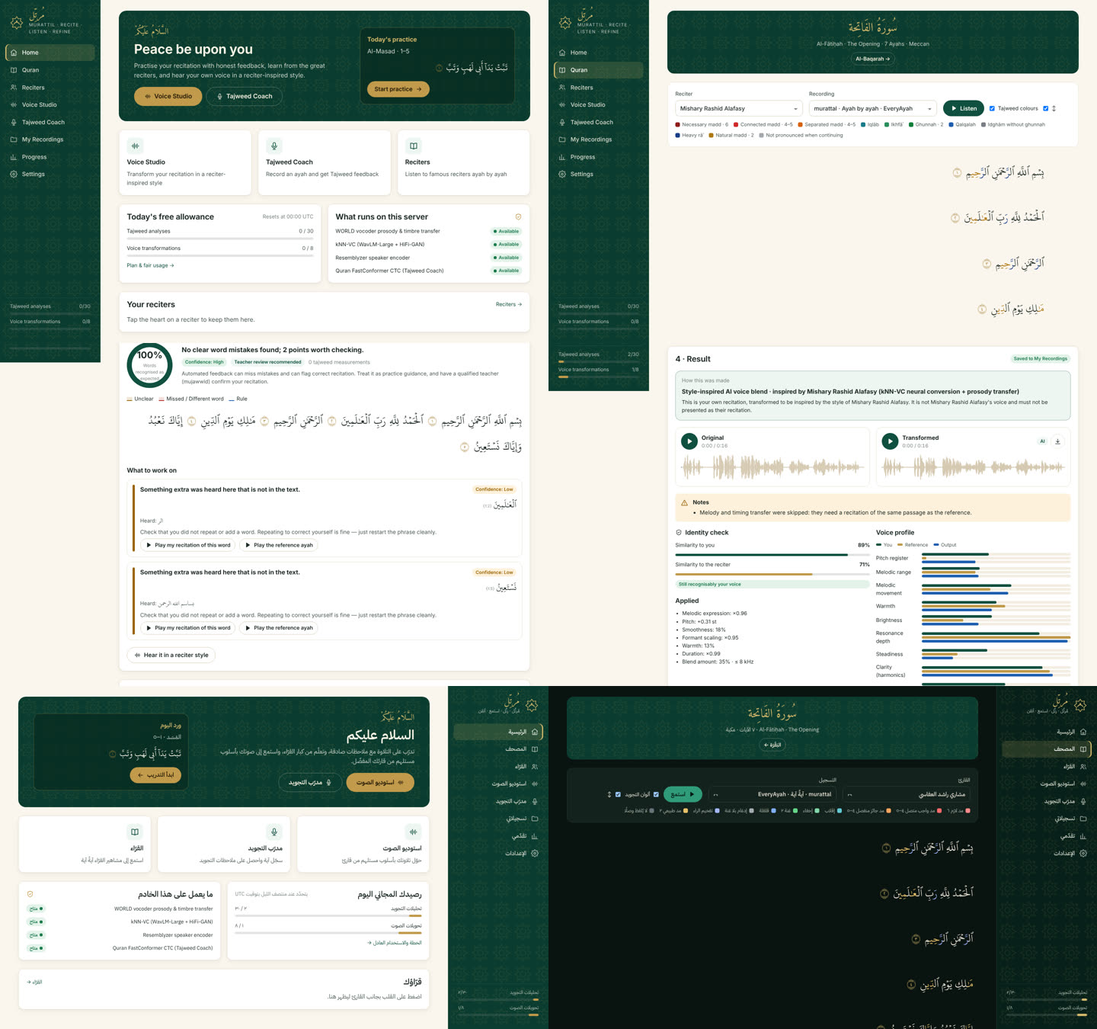
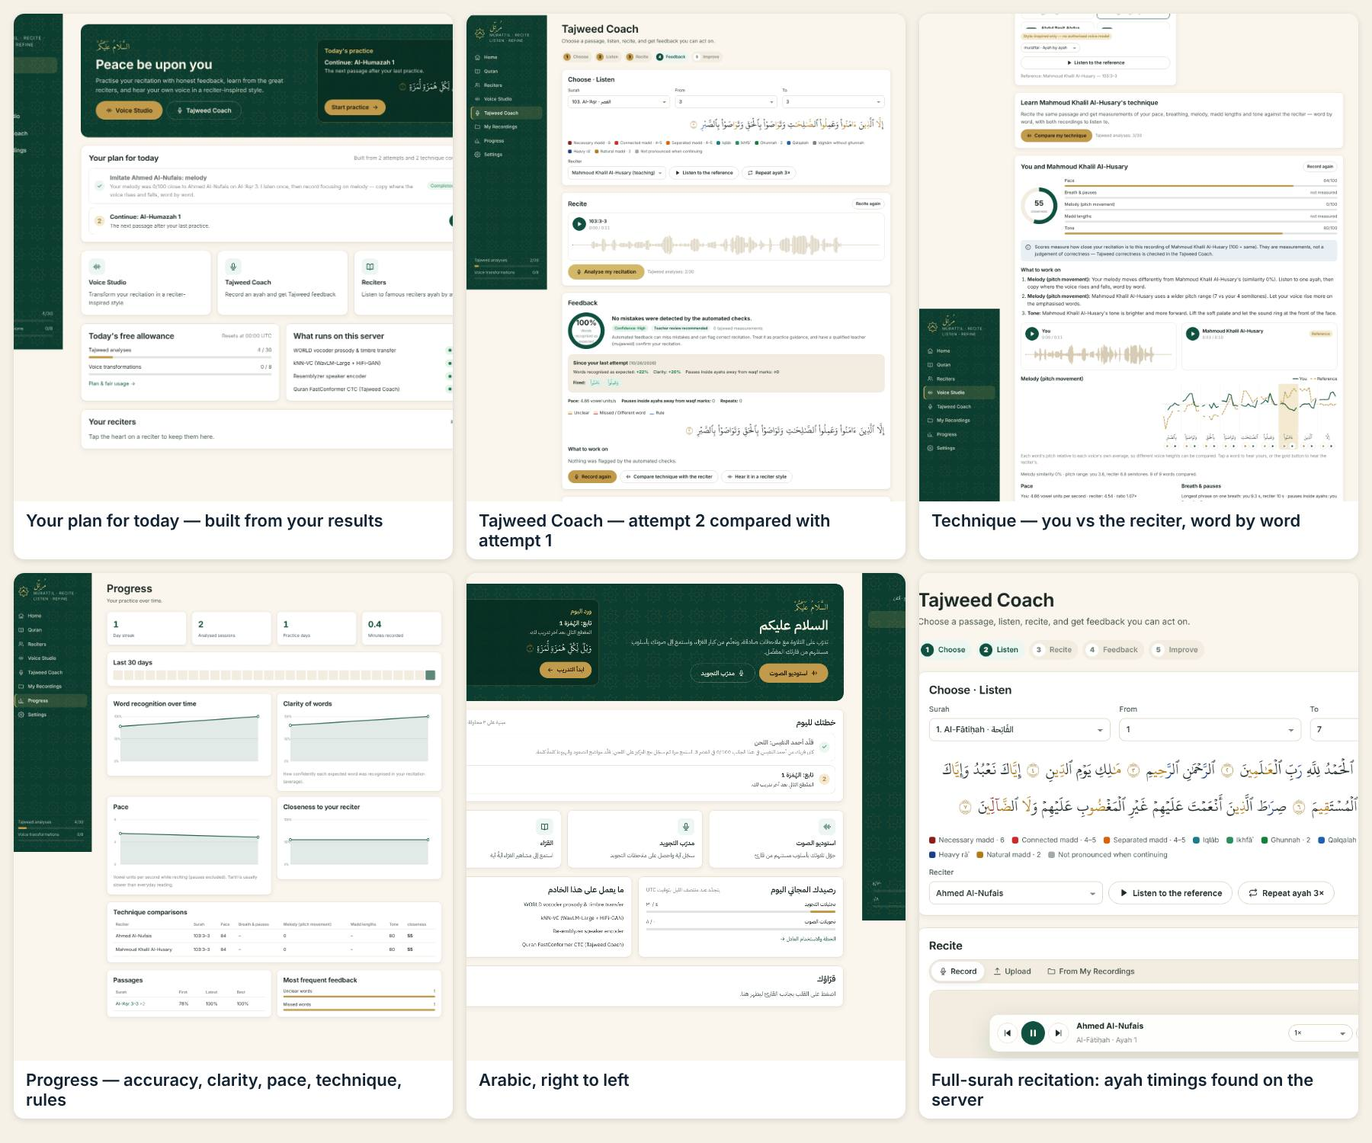
README: measured results on real recitations, deployment, what must be connected
Screenshots now come from the browser run on real recitations (practice
loop, technique comparison, plan, progress, Arabic, full-surah timings).

Claude-Session: https://claude.ai/code/session_015RJCaEhpMG8aXkcFDyGeNf

diff --git a/murattil/README.md b/murattil/README.md
@@ -1,45 +1,159 @@
 # Murattil · مُرتِّل
 
-A Quran recitation practice app. Recite in your own voice and get honest Tajweed feedback. Listen ayah by ayah to famous reciters. Hear your own recitation transformed toward a reciter-inspired vocal style.
+A Quran recitation practice app built around one goal: **help you recite better, measured on your
+own voice.**
 
-The app is free to use within published daily limits. Everything runs on a single server: a FastAPI back end, a React front end, and AI models that run on the CPU.
+- **Tajweed Coach.** Recite an ayah range. The Quran speech recogniser aligns every word you recited to
+  the text and reports missed, different and repeated words, with:
+  - the exact ayah and word;
+  - step-by-step corrections;
+  - your word and the reference ayah to play back.
 
-![Murattil: home, Quran reader with tajweed colours, Tajweed Coach feedback, Voice Studio result, Arabic RTL, dark mode](docs/screenshots.jpg)
-![Mobile layout](docs/screenshots-mobile.jpg)
+  Each new attempt is compared with your previous one: what you fixed, what is still wrong, and what is new.
+- **Learn a reciter's technique.** Record the same passage as your favourite reciter (for example
+  Ahmed Al-Nufais). You get word-by-word measurements of pace, breath and pauses, pitch movement
+  (melody), madd lengths and tone, against the reciter reciting the same words. Both recordings can be
+  played word by word.
+- **Voice Studio.** Hear your own recitation transformed toward a reciter-inspired style: prosody and
+  timbre transfer plus a capped neural voice blend, checked to still be your voice. It is never
+  presented as the reciter's voice.
+- **Your plan for today.** Built only from your own results: fix the words from your last attempt,
+  drill the rule flagged most, imitate your reciter on your weakest technique score, then review or
+  continue.
+- **Reciters and Quran reader.** Ahmed Al-Nufais, Alafasy, Al-Sudais, Al-Muaiqly, Al-Dosari, Islam Sobhi,
+  Al-Minshawi, Al-Husary, Abdul Basit and more. Play ayah by ayah with repeat, range and speed, alongside
+  the KFGQPC Uthmani text with tajweed colours.
 
-*Screenshots from the Playwright run in the development environment. The reciter audio hosts were not
-reachable there, so the Voice Studio's "reference reciter" was a local stand-in serving LibriSpeech
-speech; the recitation analysed in the Coach was synthetic (eSpeak NG) audio fed through the browser's
-fake microphone.*
+English and Arabic (RTL), light and dark, desktop and mobile. Free within published daily limits.
+
+![Murattil](docs/screenshots.jpg)
 
 ```
 murattil/
-  server/   Python: API, background jobs, audio + AI pipelines, tests
+  server/   Python: API, background jobs, audio + AI pipelines, evaluation scripts, tests
   web/      React + TypeScript single-page app
+  deploy/   Hugging Face Space card (see "Put it online")
   scripts/  data build (Quran text, tajweed spans)
 ```
 
-## What is real, and how it was verified
+## Measured on real recitations
 
-| Feature | What actually runs | How it was verified in development |
+Every number below was measured on real human recitation, not synthetic audio. The corpus is the
+public benchmark of the [Tilawa project](https://github.com/yazinsai/tilawa/tree/main/lab/benchmark):
+
+- EveryAyah professional reciters (Alafasy, Husary and others): 204 recordings, 79 minutes.
+- Crowd-sourced recitations: TLOG (77 recordings) and RetaSy (54).
+
+To reproduce: `python server/scripts/evaluate_coach.py --corpus DIR --download` (the audio is not
+redistributed here).
+
+### Tajweed Coach: words
+
+| | Result |
+| --- | --- |
+| False alarms on correct professional recitation | **2.7 % of words** flagged (78 of 2,836); 46 of 204 recordings get at least one flag |
+| A word **deleted** from a professional recording | flagged at that word in **80 %** of 107 trials |
+| A word **replaced** by another word of the same ayah | flagged in **84 %** of 103 trials |
+| A word **repeated** | flagged in **83 %** of 107 trials |
+| Speed after warm-up | median 1.3 s per recording (4 CPU cores) |
+
+The measurement exposed a recogniser habit on long madds: it writes a held syllable twice
+(«عليكمكم» for «عليكم») or splits a word in two. Word matching now forgives exactly those patterns,
+which cut false alarms from 4.4 % to 2.7 % while detection stayed the same or improved.
+
+### Tajweed Coach: rule checks
+
+Only checks shown to be reliable on real audio are reported:
+
+| Check | On correct professional recitation | Detects a real mistake | Reported? |
+| --- | --- | --- | --- |
+| Madd length (4–6 counts) | before the fix below: flagged "short" on 95 % of professional madds; re-measurement after the fix in progress | controlled shortening to ~1.5 counts (see below) | until re-measured: as information only |
+| Ghunnah duration | flagged "short" on 98 % of professional ghunnahs (before the fix below) | not measurable without labelled mistakes | **no** |
+| Qalqalah release | flagged "missing" on 77 % of professional qalqalahs (room reverb fills the closure) | — | **no** |
+| Pause inside a word | 16 pauses in 2,836 professional words | — | yes, as information only |
+
+Two bugs were found this way. The detector for a held vowel used a spectral-steadiness threshold
+tuned on synthetic speech, which real recordings never pass. It also excluded the vowels ī and ū,
+so real madds measured about 0 counts. Both are fixed: steadiness is now measured on mel bands,
+relative to each recording. A controlled test supports this: the held vowel of a professional's
+madd is shortened to about 1.5 counts by cutting out its middle, and the coach must notice.
+
+### Reciter technique comparison
+
+Each control below checks one measurement against a known change of a real professional recording,
+against itself:
+
+| Control | Result |
+| --- | --- |
+| Same recording | every score 100 |
+| Slowed to 0.8× | measured pace ratio 0.79–0.86 |
+| Pitch raised 3 semitones | melody similarity 91–97 % (melody is compared relative to each voice's own pitch); pace unchanged |
+
+It was also run on 48 pairs of a crowd-sourced reciter and a professional reciting the same ayah.
+For example, one crowd-sourced reciter was measured 2.4× faster than Husary, and another took
+mid-ayah breaths after «لَآ» and «مَا» where the reciter does not. Scores measure closeness to that
+recording, not correctness.
+
+### Other measurements
+
+- **Finding ayahs in a full-surah recording.** Some reciters, including Ahmed Al-Nufais, are published
+  only as one file per surah. In 5–6 minute recordings built from real professional ayahs (half with
+  the pauses removed), the found ayah overlaps the true one by 0.90 on average (worst 0.73), at about
+  4 s per minute of audio.
+- **Voice Studio on a real recitation.** A crowd-sourced 103:3 transformed with the neural blend:
+  the identity guard measured 0.89 similarity to the user and 0.80 to the reference (passed); 91 % of
+  melody frames were aligned to the reciter's recitation of the same ayah.
+
+### End-to-end in a browser on real audio
+
+Playwright drove Chromium. The microphone was a fake capture device playing a real crowd-sourced
+recitation, and the reference reciters were real EveryAyah recordings. All 15 checks passed, with
+no page errors:
+
+- Attempt 1 (uploaded, one word cut out) reports that word as not heard, with step-by-step correction.
+- Attempt 2 (recorded live through the microphone) lists the word as fixed.
+- Technique comparison with Husary (per-ayah source) and with Al-Nufais (full-surah source, ayahs
+  found on the server).
+- The player finds ayah timings for a full-surah recording and then plays ayah by ayah.
+- The plan and progress pages show what was measured.
+- Arabic and mobile layouts render without horizontal scroll.
+
+The audio hosts are blocked from the development sandbox, so they were replaced by a local stand-in
+serving those real recordings. Al-Nufais's own audio could therefore not be fetched, and a
+professional EveryAyah recording stood in for his full-surah file.
+
+## What must be connected for a live deployment
+
+| Needed | Why | Status |
 | --- | --- | --- |
-| **Voice Studio: neural blend** | kNN-VC (WavLM-Large layer 6 + HiFi-GAN, MIT). Frames of your recitation are blended with their nearest neighbours from the reciter's reference audio: `(1−λ)·you + λ·kNN(reciter)`. | Real weights on real speech. Resynthesis stays you (speaker similarity 0.96). Full conversion becomes the target speaker (0.93). A 35% blend gives 0.88 to you and 0.71 to the reference (was 0.61 before). |
-| **Voice Studio: style transfer** | WORLD vocoder analysis and resynthesis: pitch register (kept in *your* octave), melodic range, DTW-aligned melody and timing transfer from the same passage, formant resonance, spectral warmth, smoothness, vibrato on held notes | Each control is measured on the output. +4 st in gives +4.08 st out. Resonance −1 scales formants ×0.885. Pace ×1.25 gives ×1.25 duration. Against a deliberately inverted reference melody, contour correlation goes from −0.92 (original) to +0.86 (output), still in the user's register. |
-| **Identity guard** | Resemblyzer speaker encoder. A blend toward a reciter who has not authorised a voice model must stay ≥ 0.70 similar to the user *and* closer to the user than to the reciter, or it is reduced and finally withheld. Fails closed. | Tested with real weights, with random-weight (noise) output, and with white noise. |
-| **Tajweed Coach: words** | Quran FastConformer CTC (Tilawa project, MIT / NVIDIA CC-BY-4.0). Forced alignment of the expected ayahs, with the basmalah optional. Free transcription is compared word by word. Missed, extra, substituted and unclear words each get a confidence. | Real model on synthetic Arabic speech (eSpeak NG). It detects a deliberately omitted word (1:5 «نعبد»), aligns 88% of a complete passage, and correctly picks the basmalah before Al-Ikhlāṣ. **Not yet evaluated on human recitation:** no recitation audio was reachable from the build environment. |
-| **Tajweed Coach: rules** | Conservative acoustic measurements inside aligned words, measured in counts of the reciter's own tempo: madd length (≥ 4-count madds), ghunnah duration, qalqalah release. Never more than "medium" confidence. | Unit-tested logic only. These are heuristics, not a trained tajweed classifier. The UI labels them as such and always recommends a teacher. |
-| **Quran text** | KFGQPC Uthmanic Hafs v3.0 (via `@quran.ws/text`, CC BY 4.0), rendered in the KFGQPC Hafs font, with 147,234 tajweed spans from the quran.ws corpus (CC BY 4.0) | The build script checks the letter skeleton of all 6,236 ayahs against the independent Tanzil text (all 6,236 match). It validates every checkable tajweed span and refuses to write output on failure. 20:1 and 27:20 get no colouring because their spans did not validate. |
-| **Reciters** | 28 reciters, including Ahmed Al-Nufais, Alafasy, Al-Sudais, Al-Muaiqly, Al-Dosari, Islam Sobhi, Al-Minshawi, Al-Husary, Abdul Basit, Al-Ghamdi, Al-Qatami and Bandar Baleela. Audio streams from everyayah.com (per ayah) or the mp3quran.net API (per surah, with ayah timings where published). | Playback, repeat and range logic were exercised in the browser. **The audio hosts were blocked from the build environment**, so EveryAyah folder names and mp3quran name matching were not checked live. The server checks every source every 6 h and the UI marks unreachable ones. |
+| A host with ≥ 4 GB RAM (2 vCPU is enough) | models run on the CPU | Docker image and a one-click Hugging Face Space workflow are included (below) |
+| Outbound HTTPS to `everyayah.com` and `mp3quran.net` | reference recitations are streamed, not rehosted | Works on normal hosting. Folder names and mp3quran name matching were not checked live, because those hosts were unreachable from development. The server re-checks every source every 6 h and the UI marks unreachable ones. |
+| Model weights (~1.4 GB) | Quran recogniser and kNN-VC | Downloaded during the Docker build from the authors' GitHub releases |
+| A reciter's written consent | full voice conversion toward a specific reciter | **None registered.** Without consent the app uses a style-inspired transformation with the neural blend capped at 50 %, and says so. See "Authorised voice models". |
+| Teacher-labelled recordings of tajweed mistakes | to validate and enable ghunnah / qalqalah checks | Not available. These checks stay off until they can be measured. |
 
-How outputs are labelled:
+## Put it online
 
-- **"Style-inspired AI voice blend":** the neural stage ran and passed the identity check.
-- **"Style-inspired transformation (signal processing — no neural voice conversion)":** the neural stage was off, unavailable or rejected.
-- **Reference playback:** always shown separately.
+**Hugging Face Spaces (free CPU tier, public https link):**
 
-Every transformed file carries a disclaimer: on screen, and inside the WAV (`LIST/INFO/ICMT`). No reciter has authorised a voice model, so full voice conversion is disabled for all of them.
+1. Create a token with *write* access at https://huggingface.co/settings/tokens.
+2. In this GitHub repository, add it as an Actions secret named `HF_TOKEN`.
+3. Run **Actions → Deploy Murattil to Hugging Face**, entering a Space name such as `your-name/murattil`.
 
-## Run it
+The first build takes about 15–25 minutes, including the model weights. The app is then served at
+`https://your-name-murattil.hf.space`.
+
+**Any Docker host:**
+
+```bash
+docker build -t murattil murattil/
+docker run -p 8000:8000 -v murattil-var:/srv/var murattil
+```
+
+The Dockerfile was not built in the development environment, because it had no Docker daemon. Its
+steps are the same as the local setup below, which was used for all the tests.
+
+## Run it locally
 
 Requirements: Python 3.11+, Node 20+, ffmpeg.
 
@@ -48,7 +162,7 @@ cd server
 python -m venv .venv && . .venv/bin/activate
 pip install torch==2.14.1 --index-url https://download.pytorch.org/whl/cpu   # CPU build, optional but much smaller
 pip install -r requirements-dev.txt
-python scripts/fetch_models.py        # ~1.4 GB: kNN-VC (GitHub releases of bshall/knn-vc) + Quran ASR (yazinsai/tilawa v0.2.0)
+python scripts/fetch_models.py        # ~1.4 GB: kNN-VC (bshall/knn-vc releases) + Quran ASR (yazinsai/tilawa v0.2.0)
 
 cd ../web && npm ci && npm run build   # builds web/dist, served by the API server
 cd ../server && MURATTIL_SECURE_COOKIES=0 uvicorn murattil.main:app --port 8000   # http://localhost:8000
@@ -56,9 +170,10 @@ cd ../server && MURATTIL_SECURE_COOKIES=0 uvicorn murattil.main:app --port 8000 
 
 Notes:
 
-- **Without the model files the app still runs.** The Studio uses signal processing only, and the Coach checks recording quality only. Both say so in the UI.
-- **Development:** run `npm run dev` in `web/`. It proxies `/api` to port 8000.
-- **Docker:** `Dockerfile` builds a single container. It was not built in the development environment, which had no Docker daemon.
+- **Without the model files the app still runs.** The Coach then checks recording quality only, the
+  technique comparison is unavailable, and the Studio uses signal processing only. Each says so in
+  the UI.
+- **Development:** `npm run dev` in `web/` proxies `/api` to port 8000.
 
 ### Configuration (environment variables)
 
@@ -68,79 +183,102 @@ Notes:
 | `MURATTIL_MODELS_DIR` | `server/models` | model weights |
 | `MURATTIL_WEB_DIST` | `web/dist` | built front end |
 | `MURATTIL_SECURE_COOKIES` | `1` | set `0` only for plain-http local development |
+| `MURATTIL_FRAME_ANCESTORS` | unset | allow framing by these origins (e.g. `https://huggingface.co`); the session cookie becomes partitioned |
+| `MURATTIL_WARM_UP` | `1` | load the recogniser at startup |
 | `MURATTIL_WORKERS` / `MURATTIL_TORCH_THREADS` | `2` / `2` | background AI workers and threads per worker |
 | `MURATTIL_MAX_QUEUE` | `50` | refuse new AI jobs above this queue length |
 | `MURATTIL_FREE_*`, `MURATTIL_SUPPORTER_*` | see `config.py` | fair-usage limits |
 | `MURATTIL_ADMIN_TOKEN` | unset | enables `POST /api/admin/reciters/health` |
 
+## How it works
+
+| Part | What runs |
+| --- | --- |
+| Tajweed Coach | Quran FastConformer CTC (Tilawa, MIT / NVIDIA CC-BY-4.0), run in overlapping 30 s chunks for long recordings. Forced alignment of the expected ayahs (basmalah optional) uses the model's own spelling where its free transcription agrees, so a word's confidence measures how well the expected word explains the audio. Text differences are matched forgivingly (see above). Thresholds are named constants in `tajweed/coach.py`, chosen with `evaluate_coach.py --rescore`. |
+| Technique comparison | Both recordings are aligned word by word to the text. Measured per word and compared at the same words: articulation rate (pauses excluded), pauses where both a neural VAD and an energy detector hear silence, pitch contour relative to each speaker's median, madd vowel length, and tone (vocal-tract length, warmth, brightness). |
+| Ayah boundaries in surah files | Recognition anchors the words to the text, then forced alignment block by block; boundaries are moved into the reciter's pause. Results are cached per surah. |
+| Voice Studio | WORLD vocoder prosody and timbre transfer (DTW-aligned melody and timing from the same passage) plus kNN-VC (WavLM-Large + HiFi-GAN) blended at most 50 % toward the reference. A Resemblyzer identity guard must find the output closer to you than to the reciter (≥ 0.70 to you), or the blend is reduced and finally withheld. The guard fails closed. |
+| Quran text | KFGQPC Uthmanic Hafs v3.0 with 147,234 tajweed spans (quran.ws, CC BY 4.0). The letter skeleton of all 6,236 ayahs was checked against Tanzil. |
+
+How outputs are labelled:
+
+- **"Style-inspired AI voice blend":** the neural stage ran and passed the identity check.
+- **"Style-inspired transformation (signal processing — no neural voice conversion)":** the neural
+  stage was off, unavailable or rejected.
+- **Reference recitations:** always played separately.
+
+Every transformed file carries a disclaimer, on screen and inside the WAV.
+
 ## Fair usage
 
 Free plan, per account per UTC day:
 
-- 30 Tajweed analyses and 8 voice transformations.
+- 30 analyses (Tajweed Coach and technique comparisons) and 8 voice transformations.
 - Recordings up to 120 s (analysis) and 45 s (transformation).
-- 300 MB of storage, 100 saved recordings.
+- 300 MB of storage.
 
-A job reserves one unit when it is queued and refunds it if it fails or is cancelled. The UI shows the limits and current usage.
-
-The "Supporter" plan has higher limits but **is not for sale**: there is no payment integration. It can only be assigned by the operator.
-
-Measured CPU timings (4 cores) for a 16–17 s recording:
-
-- Tajweed analysis: about 6 s.
-- Style transformation: about 30 s.
-- With the neural blend and identity check: 40–60 s.
+A job reserves one unit when it is queued and refunds it if it fails or is cancelled. The "Supporter"
+plan has higher limits but is not for sale: there is no payment integration.
 
 ## Privacy and security
 
-- **Accounts:** every visitor gets a private anonymous account (http-only, SameSite=Lax session cookie). Adding an email and password is optional; passwords are hashed with scrypt.
-- **Recordings:** only ever served to their owner. Deleting a recording removes its files immediately, and deleting the account removes everything.
+- **Accounts:** every visitor gets a private anonymous account with an http-only session cookie.
+  Email and password are optional; passwords are hashed with scrypt.
+- **Recordings and job results:** only ever served to their owner. Deleting a recording removes its
+  files immediately, and deleting the account removes everything.
 - **Requests:**
-  - State-changing API calls require an `X-Requested-With` header, which blocks cross-site form posts.
+  - State-changing API calls require an `X-Requested-With` header.
   - Uploads are size-capped before they are read.
-  - ffmpeg decodes uploads with only the `pipe` protocol allowed, so a disguised playlist cannot read local files or URLs.
+  - ffmpeg is restricted to the `pipe` protocol.
   - Server-side reference fetches go only to allow-listed HTTPS hosts, with every redirect hop checked.
-- **Headers:** a strict Content-Security-Policy, `nosniff`, `frame-ancestors 'none'`.
+- **Headers:** a strict Content-Security-Policy.
 
 ## Authorised voice models
 
-Full conversion toward one specific person's voice is only possible for voice banks registered with documented consent:
+Full conversion toward one specific person's voice is only possible for voice banks registered with
+documented consent:
 
 ```bash
 python -m murattil.voice.registry add --id <id> --name-en "..." --audio-dir <licensed audio> \
     --consent-document consent.pdf --granted-by "Full Name" --signed-at 2026-01-31 [--expires-at ...]
-python -m murattil.voice.registry list | revoke --id <id>
 ```
 
-The manifest stores the consent document's SHA-256. A model is not loaded if its consent is missing, expired, revoked, out of scope, or the document was altered.
+The manifest stores the consent document's SHA-256. A model is not loaded if its consent is missing,
+expired, revoked, out of scope, or the document was altered.
 
 ## Tests
 
 ```bash
 cd server
-pytest                                              # 57 tests (real LibriSpeech speech, local stand-in audio host)
-MURATTIL_REAL_MODELS=1 pytest tests/test_real_models.py   # against the downloaded weights
+pytest                                                     # 65 tests
+MURATTIL_REAL_MODELS=1 pytest tests/test_real_models.py    # 6 tests against the downloaded weights
+python scripts/evaluate_coach.py --corpus DIR --download   # real-recitation evaluation (above)
+python scripts/evaluate_segmentation.py --corpus DIR       # ayah boundaries in long recordings
 ```
-
-During development the whole app was also driven in Chromium with Playwright:
-
-- Recording through the AudioWorklet recorder (fake microphone device), followed by Tajweed analysis with the real recogniser.
-- Upload, voice comparison and neural transformation in the Studio.
-- Every page in English and Arabic (RTL), light and dark, desktop and mobile, with no page errors.
 
 ## Sources and licences
 
-- Quran text: KFGQPC Uthmanic Hafs v3.0, packaged by quran.ws (CC BY 4.0). Cross-check: Tanzil Project (CC BY 3.0).
-- Tajweed rules: quran.ws tajweed corpus, derived from tajweed.quranpedia.net (CC BY 4.0).
-- Font: KFGQPC Uthmanic Script HAFS (King Fahd Glorious Quran Printing Complex). Amiri, IBM Plex Sans Arabic, Inter (OFL).
-- Recitations: streamed from everyayah.com and mp3quran.net and not rehosted; rights remain with the reciters and publishers. **Before charging for anything, confirm the terms of each audio source.**
-- Models: kNN-VC and WavLM (MIT, code vendored in `server/murattil/voice/knnvc`), Tilawa FastConformer (MIT / CC-BY-4.0), Resemblyzer (Apache-2.0), Silero VAD (MIT), WORLD (modified BSD).
-- Test audio: LibriSpeech (CC BY 4.0) via librosa's example data; synthetic Arabic from eSpeak NG.
+- **Quran text:** KFGQPC Uthmanic Hafs v3.0, packaged by quran.ws (CC BY 4.0). Cross-check: Tanzil (CC BY 3.0).
+- **Tajweed rules:** quran.ws corpus (CC BY 4.0).
+- **Fonts:** KFGQPC Uthmanic Script HAFS; Amiri, IBM Plex Sans Arabic, Inter (OFL).
+- **Recitations:** streamed from everyayah.com and mp3quran.net and not rehosted. Rights remain with
+  the reciters and publishers.
+- **Models:**
+  - kNN-VC and WavLM (MIT, vendored in `server/murattil/voice/knnvc`)
+  - Tilawa FastConformer (MIT / CC-BY-4.0)
+  - Resemblyzer (Apache-2.0)
+  - Silero VAD (MIT)
+  - WORLD (modified BSD)
+- **Evaluation audio:** the Tilawa benchmark (downloaded on demand). **Test fixtures:** LibriSpeech
+  (CC BY 4.0) and synthetic Arabic from eSpeak NG.
 
 ## Known limitations
 
-- **Coach accuracy on real recitation is unmeasured.** It needs an evaluation set of human recitations with teacher-marked mistakes before its numbers can be trusted.
-- **Tajweed rule checks are heuristic.** They cover madd length, ghunnah and qalqalah only. Makharij feedback is advisory: it is shown for unclear or substituted words and does not detect a specific articulation error.
-- **The neural blend outputs 16 kHz audio** (8 kHz bandwidth); the signal-processing path runs at 24 kHz.
-- **Melody and timing transfer need the same passage** as the reference. Recordings that don't match are detected and the transfer is skipped, with a note in the result.
-- **Audio-source identifiers are unchecked:** EveryAyah folder names and mp3quran names were not verified against the live services from the build environment.
+- **Automated feedback is not a teacher.** About 1 word in 37 of correct professional recitation is
+  flagged, and about 1 real word mistake in 5 is missed. The app always says so and recommends a
+  qualified teacher.
+- **Few rule checks.** Ghunnah, qalqalah, makharij and sifat are not judged automatically. They are
+  taught with highlighted rules, explanations and reference playback.
+- **Technique scores compare you with one recording of a reciter.** They are closeness, not
+  correctness.
+- **The neural blend outputs 16 kHz audio**; the signal-processing path runs at 24 kHz.
